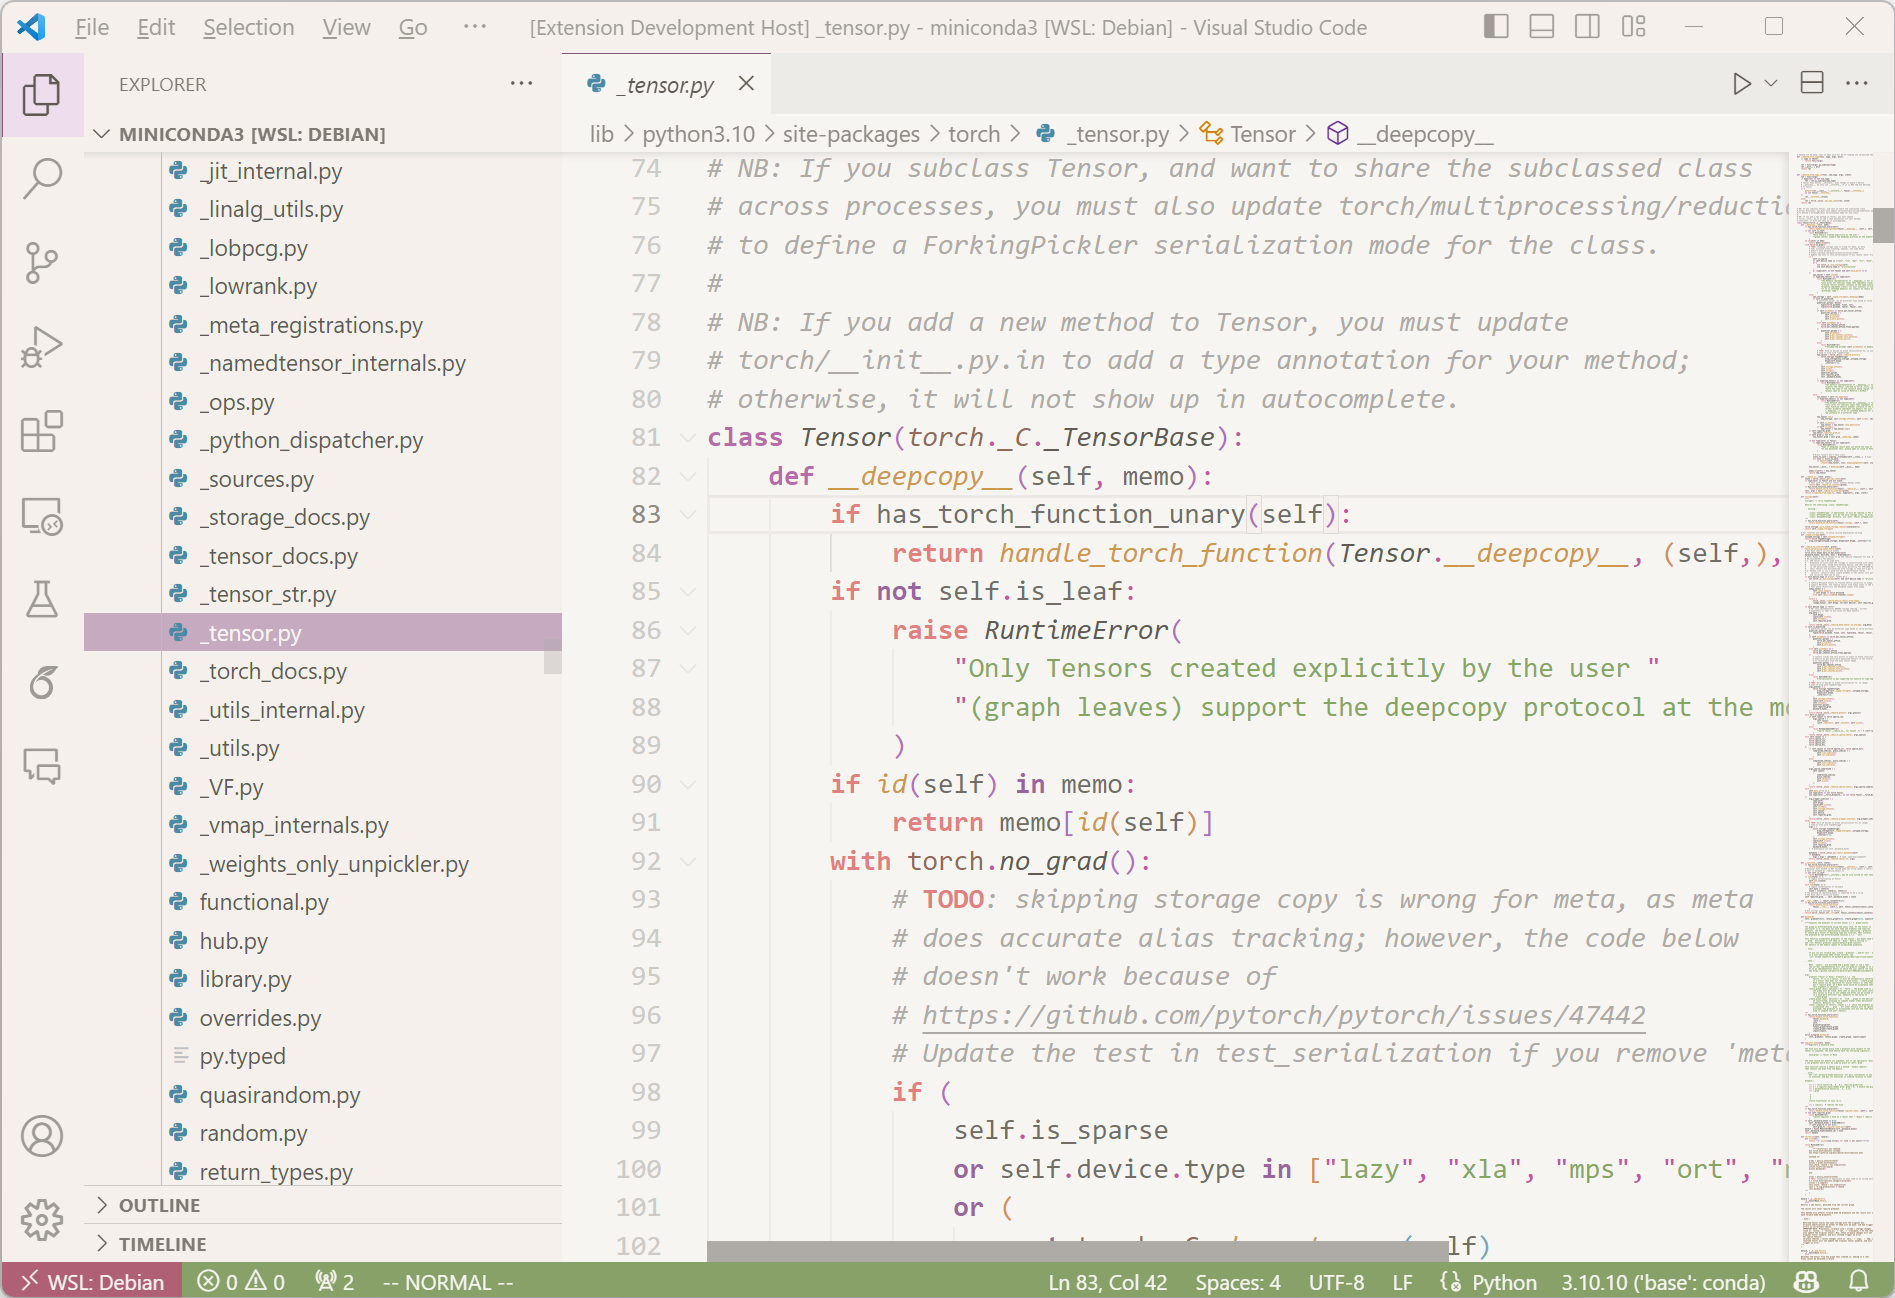
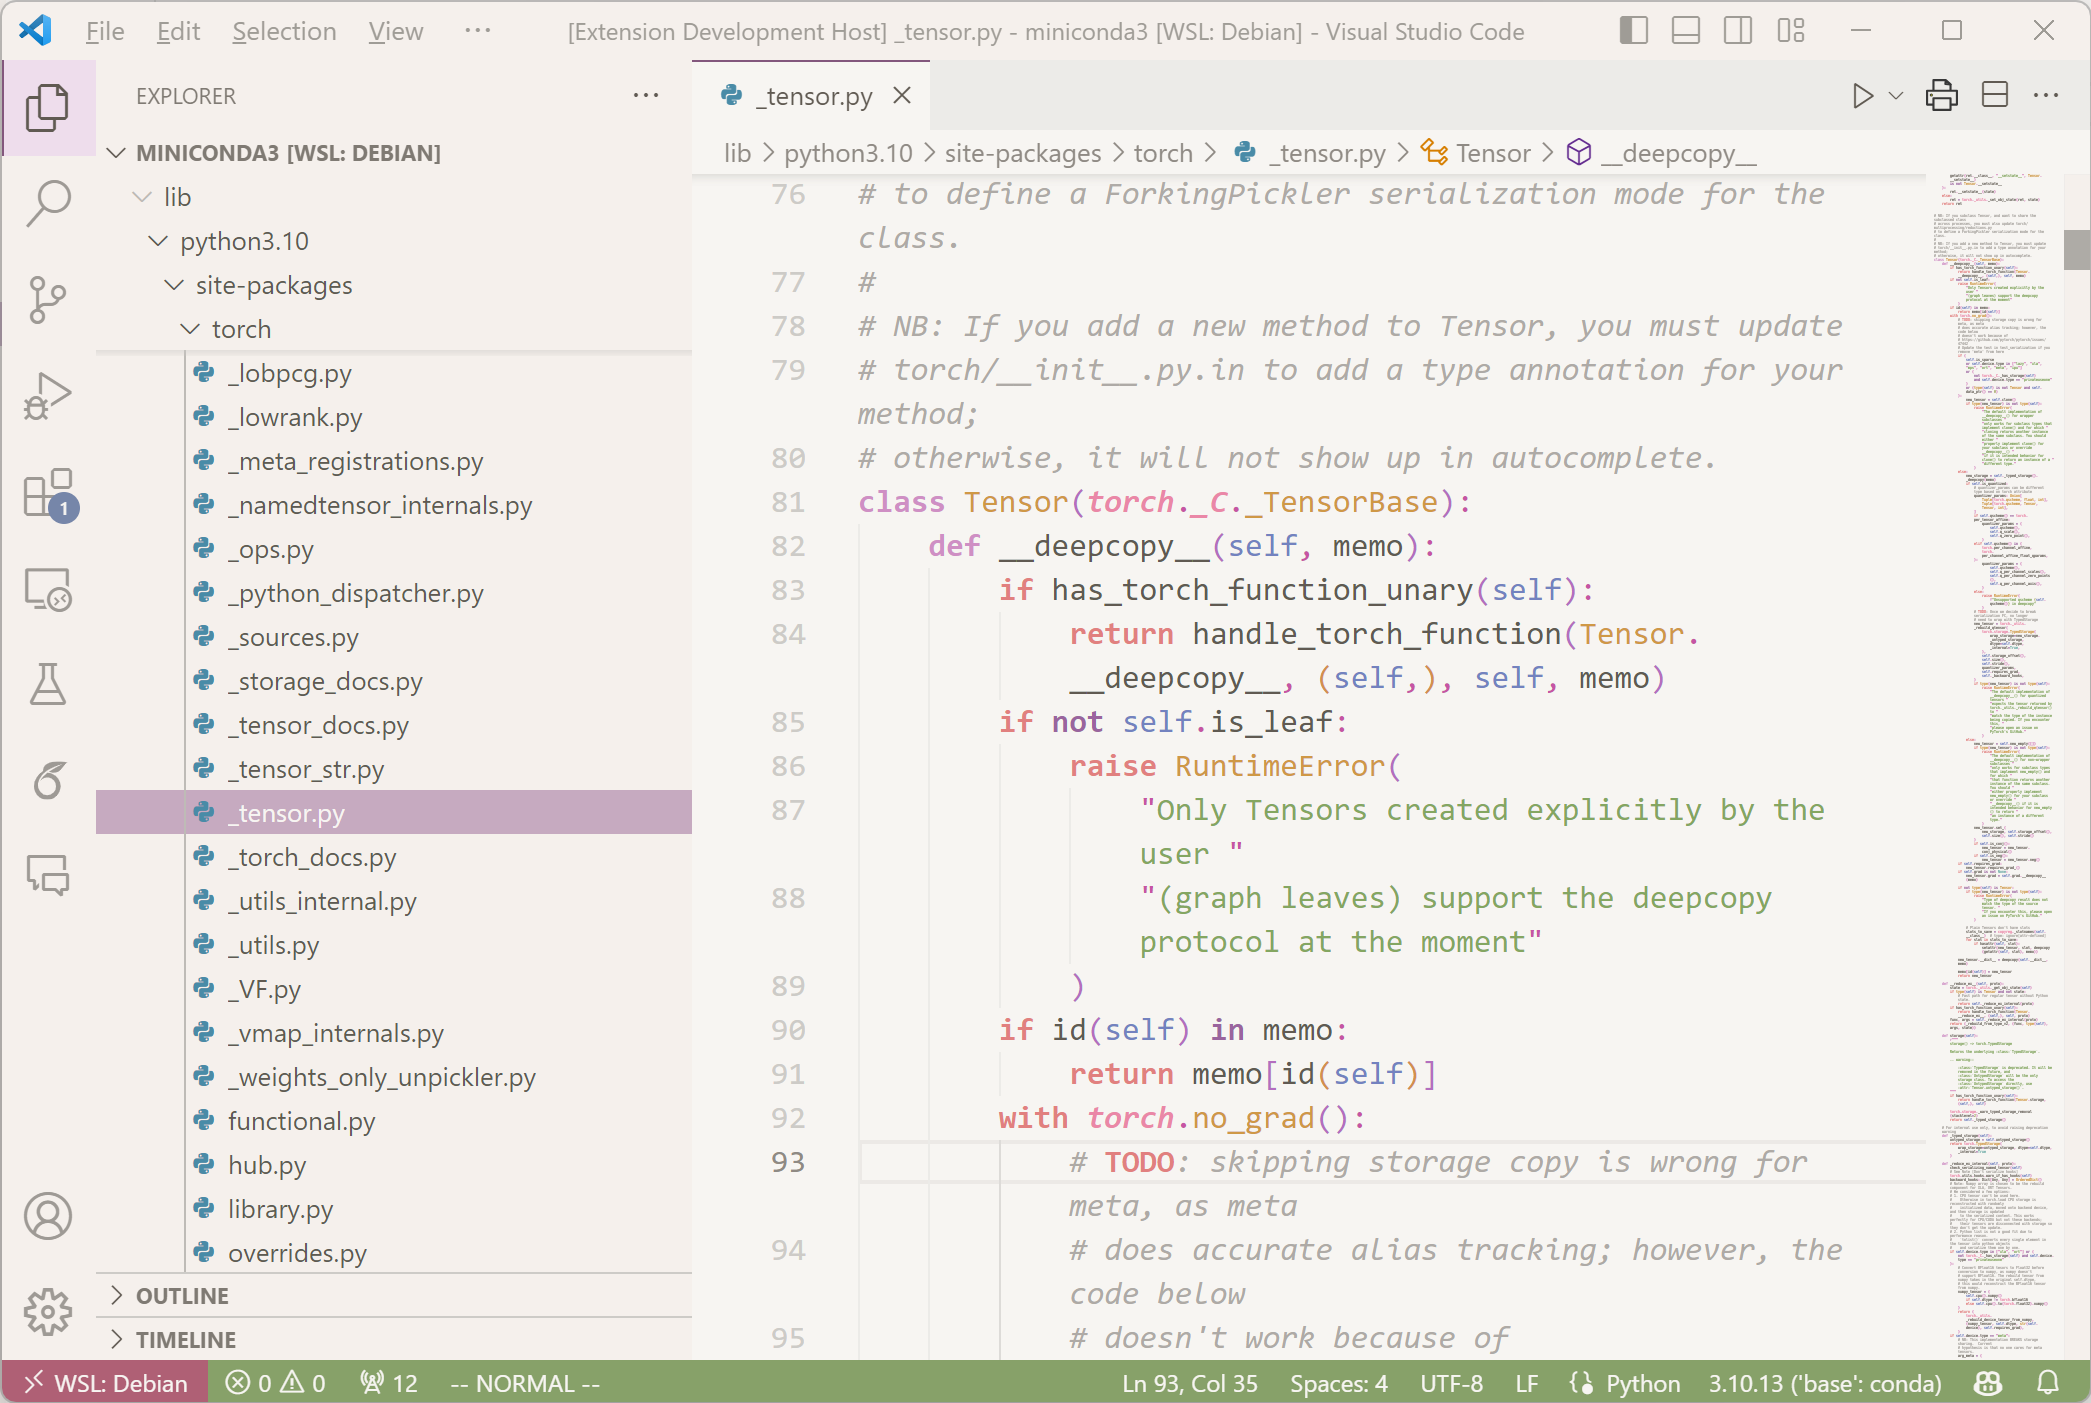
Update 1.1.1

diff --git a/README.md b/README.md
@@ -10,7 +10,7 @@ Let light back into our eyes, to see the world in the daytime when there are col
 
 <!-- Inspired by [Soft Era](https://github.com/soft-aesthetic/soft-era-vs-code), [Earl Grey](https://github.com/earl-grey-theme/earl-grey-vsc) and [Fluffy Theme](https://github.com/ayako02/fluffy-theme). -->
 
-![demo](pus_demo_new.png)
+![demo](pus_demo.png)
 
 
 

diff --git a/CHANGELOG.md b/CHANGELOG.md
@@ -1,5 +1,8 @@
 # Change Log
 
+## 1.1.1
+- Change an ugly color setting
+
 ## 1.1.0
 - Improve color schemes for some semantic tokens to avoid confounds
 - Special color for Python classes
